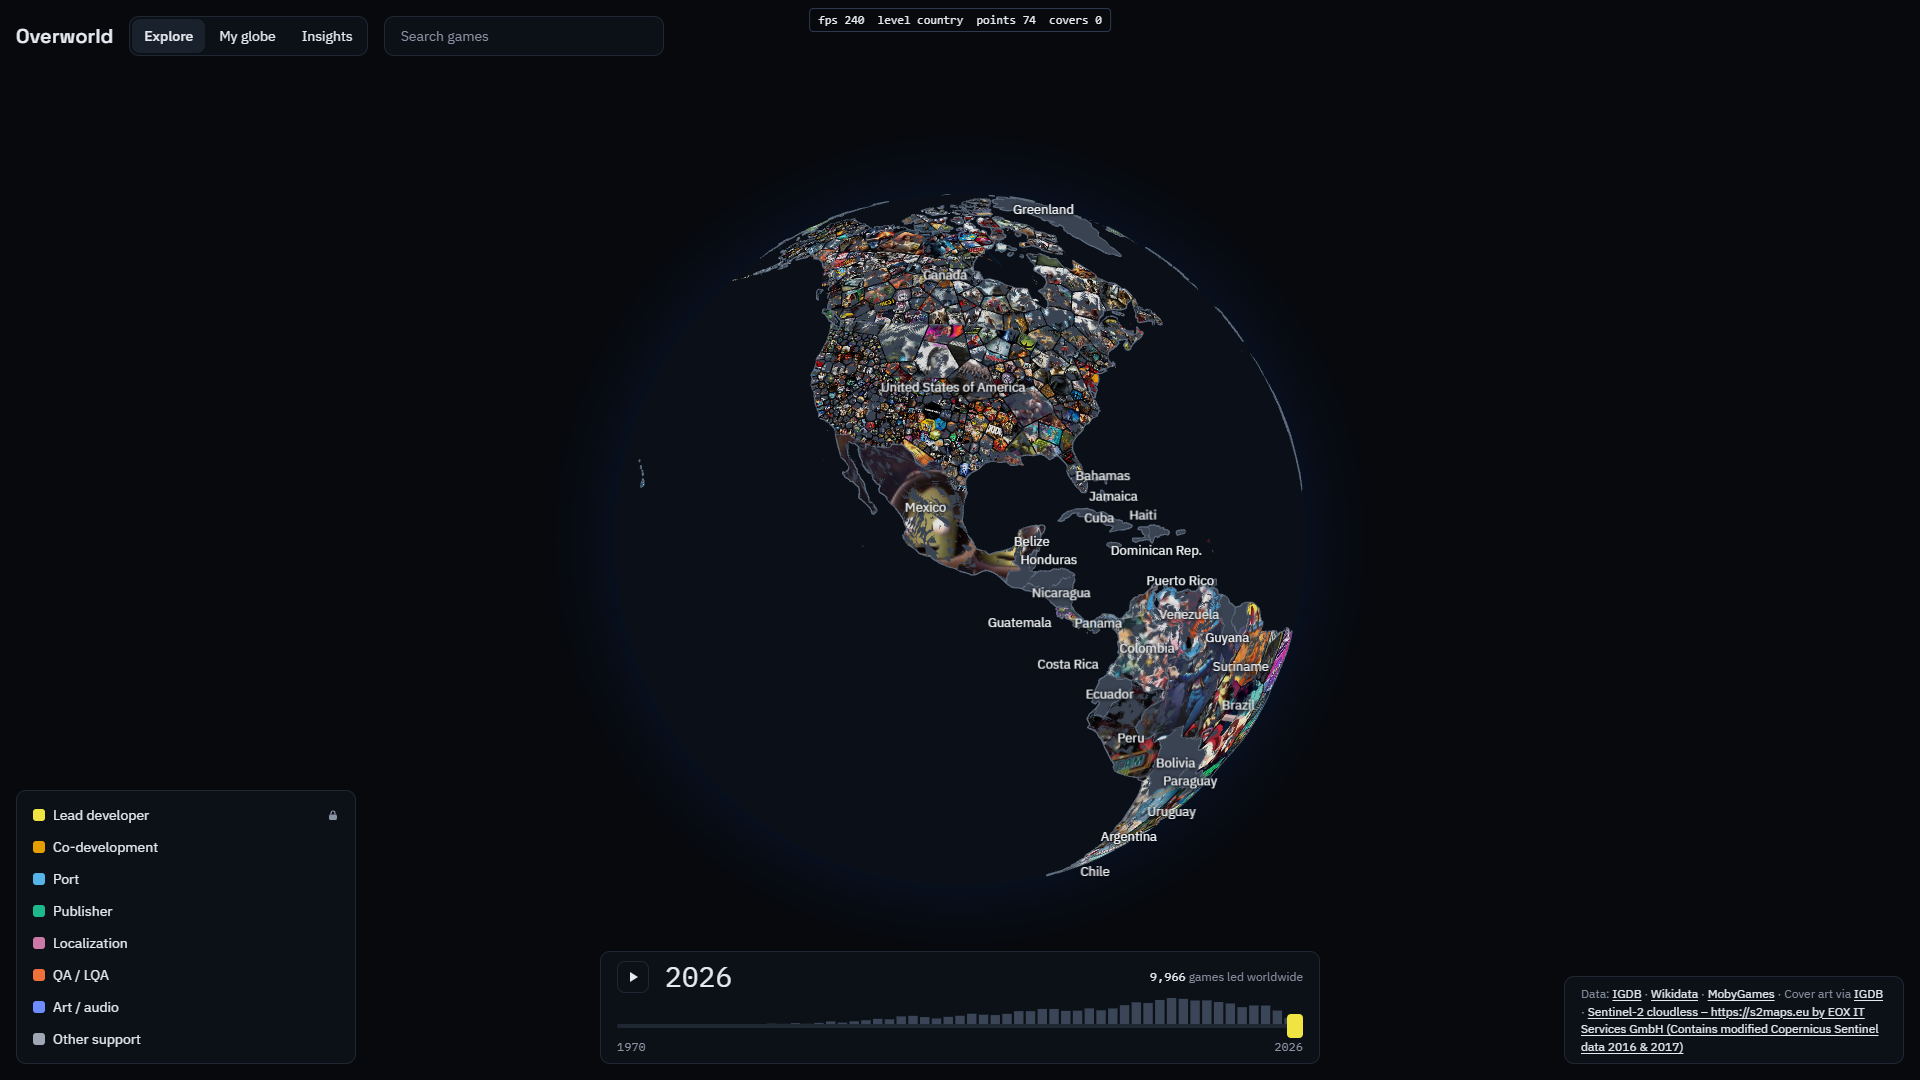
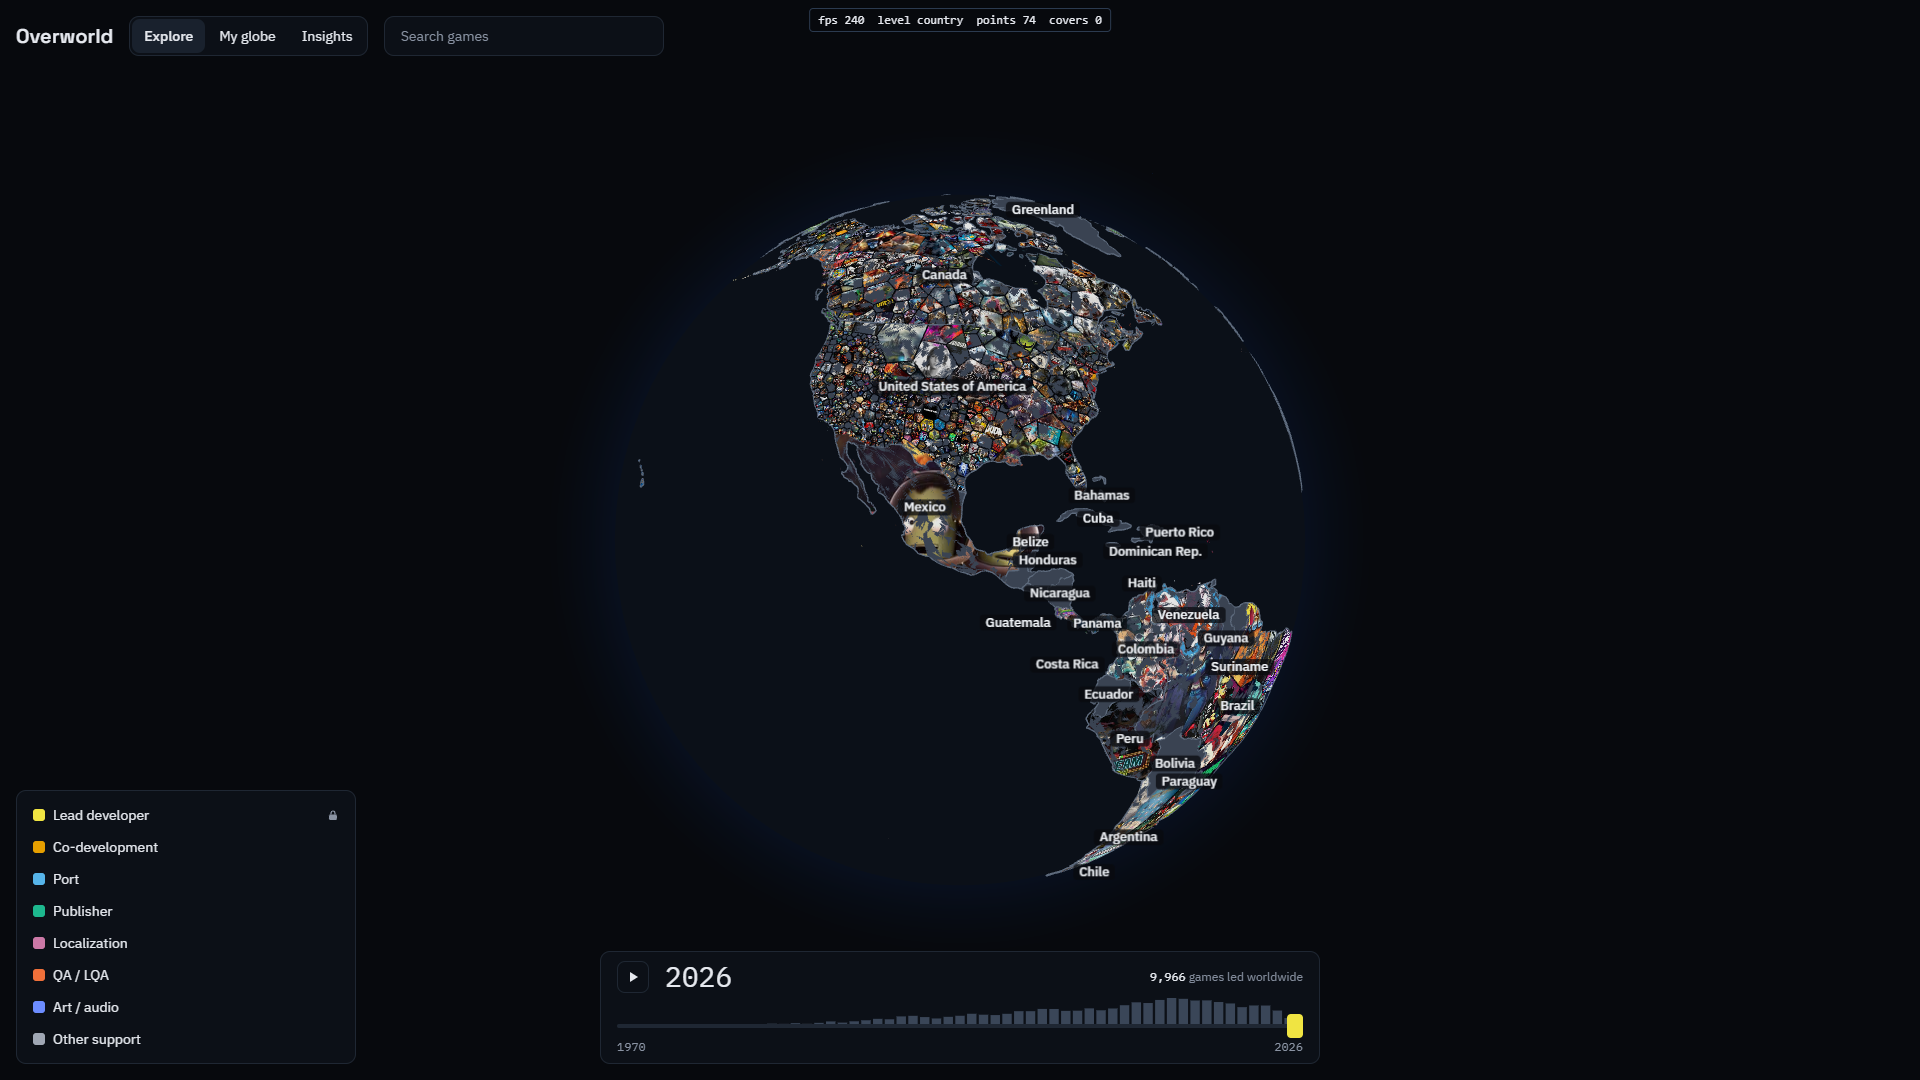
Add 2x cover tier and pick sharp covers while the globe moves

Changed region(s): [[0.4062, 0.1833, 0.6875, 0.825], [0.8125, 0.9167, 1.0, 0.9778]]

diff --git a/web/src/globe/mosaicLayer.ts b/web/src/globe/mosaicLayer.ts
@@ -5,30 +5,39 @@ import type { MosaicCell, MosaicMesh } from './mosaic/build';
 import type { MosaicRequest, MosaicResponse, WorkerGame } from './mosaic/protocol';
 import { GLOBE_RADIUS } from './outline';
 
-// Three sharpness tiers; a cell gets the next tier once it shows its cover taller than the current tier's pixels.
-const LOW: AtlasLayout = { size: 3072, slotW: 64, slotH: 88, imageW: 60, imageH: 85 };
-const MID: AtlasLayout = { size: 4096, height: 2048, slotW: 268, slotH: 378, imageW: 264, imageH: 374 };
-const TOP: AtlasLayout = { size: 3072, height: 2176, slotW: 768, slotH: 1088, imageW: 762, imageH: 1080 };
-const MID_CAPACITY = 75;
-const TOP_CAPACITY = 8;
+// Sharpness tiers: a cell moves to the next tier once its cover spans more screen pixels than the current tier has.
+interface Tier {
+  layout: AtlasLayout;
+  size: 'cover_small' | 'cover_big' | 'cover_big_2x' | '1080p';
+  capacity: number;
+  inFlight: number;
+}
+const TIERS: Tier[] = [
+  { layout: { size: 3072, slotW: 64, slotH: 88, imageW: 60, imageH: 85 }, size: 'cover_small', capacity: 1632, inFlight: 8 },
+  { layout: { size: 4096, height: 2048, slotW: 268, slotH: 378, imageW: 264, imageH: 374 }, size: 'cover_big', capacity: 75, inFlight: 4 },
+  { layout: { size: 4096, slotW: 532, slotH: 752, imageW: 528, imageH: 748 }, size: 'cover_big_2x', capacity: 35, inFlight: 4 },
+  { layout: { size: 3072, height: 2176, slotW: 768, slotH: 1088, imageW: 762, imageH: 1080 }, size: '1080p', capacity: 8, inFlight: 2 },
+];
 const TABLE_W = 2048;
-const STRIDE = 3;
+const STRIDE = TIERS.length;
 const BASE_COLOR = new THREE.Color('#4a5466');
 
 const VERTEX = `
 attribute float aCell;
 uniform sampler2D uTable;
 varying vec2 vUv;
-flat varying vec4 vLow;
-flat varying vec4 vHigh;
+flat varying vec4 vT0;
+flat varying vec4 vT1;
+flat varying vec4 vT2;
+flat varying vec4 vT3;
 flat varying float vCell;
-flat varying vec4 vTop;
 ivec2 at(int k) { return ivec2(k % ${TABLE_W}, k / ${TABLE_W}); }
 void main() {
-  int c = int(aCell + 0.5);
-  vLow = texelFetch(uTable, at(${STRIDE} * c), 0);
-  vHigh = texelFetch(uTable, at(${STRIDE} * c + 1), 0);
-  vTop = texelFetch(uTable, at(${STRIDE} * c + 2), 0);
+  int c = ${STRIDE} * int(aCell + 0.5);
+  vT0 = texelFetch(uTable, at(c), 0);
+  vT1 = texelFetch(uTable, at(c + 1), 0);
+  vT2 = texelFetch(uTable, at(c + 2), 0);
+  vT3 = texelFetch(uTable, at(c + 3), 0);
   vCell = aCell;
   vUv = uv;
   gl_Position = projectionMatrix * modelViewMatrix * vec4(position, 1.0);
@@ -36,26 +45,29 @@ void main() {
 `;
 
 const FRAGMENT = `
-uniform sampler2D uLow;
-uniform sampler2D uHigh;
-uniform sampler2D uTop;
+uniform sampler2D uT0;
+uniform sampler2D uT1;
+uniform sampler2D uT2;
+uniform sampler2D uT3;
 uniform vec3 uBase;
 uniform float uHover;
 uniform float uSelected;
 uniform float uDim;
 varying vec2 vUv;
-flat varying vec4 vLow;
-flat varying vec4 vHigh;
-flat varying vec4 vTop;
+flat varying vec4 vT0;
+flat varying vec4 vT1;
+flat varying vec4 vT2;
+flat varying vec4 vT3;
 flat varying float vCell;
 float hash(float n) { return fract(sin(n * 12.9898) * 43758.5453); }
 vec2 inRect(vec4 r, vec2 uv) { return vec2(mix(r.x, r.z, uv.x), mix(r.y, r.w, 1.0 - uv.y)); }
 void main() {
   vec2 uv = clamp(vUv, 0.0, 1.0);
   vec3 col;
-  if (vTop.x >= 0.0) col = textureLod(uTop, inRect(vTop, uv), 0.0).rgb;
-  else if (vHigh.x >= 0.0) col = textureLod(uHigh, inRect(vHigh, uv), 0.0).rgb;
-  else if (vLow.x >= 0.0) col = textureLod(uLow, inRect(vLow, uv), 0.0).rgb;
+  if (vT3.x >= 0.0) col = textureLod(uT3, inRect(vT3, uv), 0.0).rgb;
+  else if (vT2.x >= 0.0) col = textureLod(uT2, inRect(vT2, uv), 0.0).rgb;
+  else if (vT1.x >= 0.0) col = textureLod(uT1, inRect(vT1, uv), 0.0).rgb;
+  else if (vT0.x >= 0.0) col = textureLod(uT0, inRect(vT0, uv), 0.0).rgb;
   else col = uBase * (0.75 + 0.5 * hash(vCell + 1.0));
   float hover = 1.0 - step(0.5, abs(vCell - uHover));
   float selected = 1.0 - step(0.5, abs(vCell - uSelected));
@@ -77,9 +89,7 @@ export interface MosaicStats {
 
 export class MosaicLayer {
   private readonly worker: Worker;
-  private readonly low: CoverAtlas;
-  private readonly high: CoverAtlas;
-  private readonly top: CoverAtlas;
+  private readonly atlases: CoverAtlas[];
   private pixelRatio = 1;
   private readonly material: THREE.ShaderMaterial;
   private readonly lineMaterial = new THREE.LineBasicMaterial({ color: '#05070b', transparent: true, opacity: 0.85 });
@@ -103,9 +113,7 @@ export class MosaicLayer {
     renderer: THREE.WebGLRenderer,
     clock: () => number,
   ) {
-    this.low = new CoverAtlas(renderer, clock, LOW, (id) => coverUrl(id), 8, false);
-    this.high = new CoverAtlas(renderer, clock, MID, (id) => coverUrl(id, 'cover_big'), 4, false);
-    this.top = new CoverAtlas(renderer, clock, TOP, (id) => coverUrl(id, '1080p'), 2, false);
+    this.atlases = TIERS.map((t) => new CoverAtlas(renderer, clock, t.layout, (id) => coverUrl(id, t.size), t.inFlight, false));
     this.pixelRatio = renderer.getPixelRatio();
     this.table = this.makeTable(1);
     this.material = new THREE.ShaderMaterial({
@@ -113,9 +121,10 @@ export class MosaicLayer {
       fragmentShader: FRAGMENT,
       uniforms: {
         uTable: { value: this.table },
-        uLow: { value: this.low.texture },
-        uHigh: { value: this.high.texture },
-        uTop: { value: this.top.texture },
+        uT0: { value: this.atlases[0]!.texture },
+        uT1: { value: this.atlases[1]!.texture },
+        uT2: { value: this.atlases[2]!.texture },
+        uT3: { value: this.atlases[3]!.texture },
         uBase: { value: BASE_COLOR },
         uHover: { value: -1 },
         uSelected: { value: -1 },
@@ -188,8 +197,8 @@ export class MosaicLayer {
       buildMs: this.buildMs,
       applyMs: this.applyMs,
       frameMs: this.frameMs,
-      lowLoaded: this.low.loadedCount(),
-      highLoaded: this.high.loadedCount() + this.top.loadedCount(),
+      lowLoaded: this.atlases[0]!.loadedCount(),
+      highLoaded: this.atlases.slice(1).reduce((a, t) => a + t.loadedCount(), 0),
     };
   }
 
@@ -209,22 +218,17 @@ export class MosaicLayer {
   private frameInner(camera: THREE.PerspectiveCamera, heightPx: number): boolean {
     if (this.needHigh && this.cells.length > 0) {
       this.needHigh = false;
-      const { mid, top } = this.pickSharp(camera, heightPx);
-      this.high.want(mid);
-      this.top.want(top);
+      this.pickSharp(camera, heightPx).forEach((keys, k) => this.atlases[k + 1]!.want(keys));
     }
-    const lowChanged = this.low.frame();
-    const topChanged = this.top.frame();
-    const changed = this.high.frame() || lowChanged || topChanged;
+    let changed = false;
+    for (const a of this.atlases) changed = a.frame() || changed;
     if (changed) this.fillTable();
     return changed;
   }
 
   dispose(): void {
     this.worker.terminate();
-    this.low.dispose();
-    this.high.dispose();
-    this.top.dispose();
+    for (const a of this.atlases) a.dispose();
     this.table.dispose();
     this.mesh.geometry.dispose();
     this.lines.geometry.dispose();
@@ -285,7 +289,7 @@ export class MosaicLayer {
       .sort((a, b) => b[0] - a[0])
       .map(([, i]) => m.cells[i]!.cover)
       .filter((c): c is string => !!c);
-    this.low.want(order.slice(0, Math.floor(LOW.size / LOW.slotW) * Math.floor(LOW.size / LOW.slotH)));
+    this.atlases[0]!.want(order.slice(0, TIERS[0]!.capacity));
     this.needHigh = true;
     this.fillTable();
     this.onChange();
@@ -308,24 +312,23 @@ export class MosaicLayer {
     data.fill(-1);
     this.cells.forEach((c, i) => {
       if (!c.cover) return;
-      const base = 4 * STRIDE * i;
-      const lo = this.low.uv(c.cover);
-      if (lo) data.set(lo, base);
-      const mid = this.high.uv(c.cover);
-      if (mid) data.set(mid, base + 4);
-      const top = this.top.uv(c.cover);
-      if (top) data.set(top, base + 8);
+      this.atlases.forEach((a, k) => {
+        const r = a.uv(c.cover!);
+        if (r) data.set(r, 4 * (STRIDE * i + k));
+      });
     });
     this.table.needsUpdate = true;
   }
 
   // Pixels the cover spans on screen, from its laid-out height, the distance and how much the cell faces the camera.
-  private pickSharp(camera: THREE.PerspectiveCamera, heightPx: number): { mid: string[]; top: string[] } {
+  // Returns, for each tier above the first, the covers that need it, biggest first; cells off screen are skipped.
+  private pickSharp(camera: THREE.PerspectiveCamera, heightPx: number): string[][] {
     const focal = (heightPx * this.pixelRatio) / (2 * Math.tan((camera.fov * Math.PI) / 360));
     const cam = camera.position;
     const camLen = cam.length();
     const scored: [number, string][] = [];
     const p = new THREE.Vector3();
+    const ndc = new THREE.Vector3();
     for (const c of this.cells) {
       if (!c.cover) continue;
       const phi = ((90 - c.lat) * Math.PI) / 180;
@@ -335,12 +338,18 @@ export class MosaicLayer {
       if (facing < 0.1) continue;
       const size = c.imageH * (Math.PI / 180) * GLOBE_RADIUS;
       const px = (size / Math.max(1, p.distanceTo(cam))) * focal * Math.sqrt(facing);
-      if (px > LOW.imageH) scored.push([px, c.cover]);
+      if (px <= TIERS[0]!.layout.imageH) continue;
+      ndc.copy(p).project(camera);
+      const reach = 1 + (2 * px) / (heightPx * this.pixelRatio);
+      if (Math.abs(ndc.x) > reach + 0.5 || Math.abs(ndc.y) > reach) continue;
+      scored.push([px, c.cover]);
     }
-    scored.sort((a, b) => b[0] - a[0]);
-    return {
-      mid: scored.slice(0, MID_CAPACITY).map(([, k]) => k),
-      top: scored.filter(([px]) => px > MID.imageH).slice(0, TOP_CAPACITY).map(([, k]) => k),
-    };
+    scored.sort((x, y) => y[0] - x[0]);
+    return TIERS.slice(1).map((t, k) =>
+      scored
+        .filter(([px]) => px > TIERS[k]!.layout.imageH)
+        .slice(0, t.capacity)
+        .map(([, key]) => key),
+    );
   }
 }

diff --git a/web/src/globe/GlobeView.tsx b/web/src/globe/GlobeView.tsx
@@ -398,6 +398,7 @@ export function GlobeView() {
     let mosaicPicking = false;
     let mosaicMovedAt = -Infinity;
     let mosaicSettled = true;
+    let mosaicPickedAt = -Infinity;
     relayoutRef.current = 'fresh';
     let lastMove = -Infinity;
     let lastLayout = -Infinity;
@@ -627,8 +628,9 @@ ${where}`;
         mosaicMovedAt = now;
         mosaicSettled = false;
       }
-      if (!mosaicSettled && now - mosaicMovedAt > 250) {
-        mosaicSettled = true;
+      if (!mosaicSettled && (now - mosaicMovedAt > 250 || now - mosaicPickedAt > 400)) {
+        mosaicSettled = now - mosaicMovedAt > 250;
+        mosaicPickedAt = now;
         mosaic.cameraMoved();
       }
       mosaic.frame(camera as THREE.PerspectiveCamera, canvas.clientHeight);

diff --git a/web/src/globe/coverAtlas.ts b/web/src/globe/coverAtlas.ts
@@ -4,7 +4,7 @@ import { ATLAS, atlasHeight, slotCount, slotOrigin, slotUv, SlotCache, type Atla
 export const MAX_IN_FLIGHT = 4;
 const UPLOADS_PER_FRAME = 2;
 
-export function coverUrl(id: string, size: 'cover_small' | 'cover_big' | '1080p' = 'cover_small'): string {
+export function coverUrl(id: string, size: 'cover_small' | 'cover_big' | 'cover_big_2x' | '1080p' = 'cover_small'): string {
   return `https://images.igdb.com/igdb/image/upload/t_${size}/${id}.jpg`;
 }
 

diff --git a/reports/performance-real.md b/reports/performance-real.md
@@ -1,6 +1,6 @@
 # Globe performance, real data
 
-- Date: 2026-11-16T19:22:56.659Z
+- Date: 2026-11-16T20:09:48.601Z
 - GPU renderer: `ANGLE (NVIDIA, NVIDIA GeForce RTX 2060 SUPER (0x00001F06) Direct3D11 vs_5_0 ps_5_0, D3D11)` (vendor `Google Inc. (NVIDIA)`)
 - Browser: Chrome/157.0.8103.51, headful, viewport 1920x1080 at devicePixelRatio 1
 - Server: vite dev server (unminified React development build), data set `real`: 9966 games, 6385 companies, years 1970 to 2026, generatedAt 2026-11-16T18:25:27.009Z
@@ -13,14 +13,14 @@ Frame times come from a requestAnimationFrame loop inside the page. 1% low is 10
 
 | Scenario | Level | Points | Covers | Avg fps | 1% low fps | Median ms | p95 ms | Max ms | Frames | >20 ms | App fps | Result |
 |---|---|---|---|---|---|---|---|---|---|---|---|---|
-| a-idle-country | country | 74 | 0 | 239.6 | 195.1 | 4.2 | 4.3 | 8.9 | 1197 | 0% | 239 | PASS |
-| b-orbit-country | country | 74 | 0 | 239 | 162.6 | 4.2 | 4.3 | 8.4 | 1194 | 0% | 240 | PASS |
-| c-orbit-city-europe | city | 482 | 0 | 239.2 | 172.7 | 4.2 | 4.3 | 8.4 | 1196 | 0% | 239 | PASS |
-| d-orbit-company-dense-city | company | 4880 | 0 | 236 | 96.4 | 4.2 | 4.4 | 16.6 | 1179 | 0% | 240 | PASS |
-| e1-year-play-country | country | 74 | 0 | 206.1 | 14.7 | 4.2 | 4.4 | 1999.8 | 4040 | 0.3% | 189 | PASS |
-| e2-year-play-company | company | 4880 | 0 | 224.3 | 45.4 | 4.2 | 4.4 | 104.2 | 4395 | 0.3% | 229 | PASS |
-| f-game-arcs | country | 74 | 0 | 101.7 | 2.7 | 4.2 | 16.8 | 1229 | 508 | 4.9% | 240 | PASS |
-| g-game-filter-toggle | country | 74 | 0 | 77.7 | 1.6 | 4.2 | 16.6 | 1249.9 | 466 | 3.9% | 16 | PASS |
+| a-idle-country | country | 74 | 0 | 240 | 232.1 | 4.2 | 4.2 | 4.4 | 1199 | 0% | 240 | PASS |
+| b-orbit-country | country | 74 | 0 | 240 | 225.6 | 4.2 | 4.3 | 5.9 | 1199 | 0% | 240 | PASS |
+| c-orbit-city-europe | city | 482 | 0 | 239.6 | 200.3 | 4.2 | 4.3 | 8.3 | 1197 | 0% | 240 | PASS |
+| d-orbit-company-dense-city | company | 4880 | 0 | 238.2 | 135.9 | 4.2 | 4.3 | 12.6 | 1190 | 0% | 240 | PASS |
+| e1-year-play-country | country | 74 | 0 | 239.1 | 172.5 | 4.2 | 4.3 | 16.6 | 4688 | 0% | 240 | PASS |
+| e2-year-play-company | company | 4880 | 0 | 236.6 | 99.6 | 4.2 | 4.3 | 25.1 | 4638 | 0% | 240 | PASS |
+| f-game-arcs | country | 74 | 0 | 240 | 232.6 | 4.2 | 4.3 | 4.3 | 1199 | 0% | 240 | PASS |
+| g-game-filter-toggle | country | 74 | 0 | 239.4 | 185.6 | 4.2 | 4.3 | 12.5 | 1435 | 0% | 240 | PASS |
 
 - a-idle-country: Idle at country level (default view, default slow auto-rotate). Screenshot docs/screenshots/real-a-idle-country.png
 - b-orbit-country: Orbiting continuously at country level. Screenshot docs/screenshots/real-b-orbit-country.png
@@ -30,14 +30,14 @@ Frame times come from a requestAnimationFrame loop inside the page. 1% low is 10
 - e2-year-play-company: Year slider playing 1970 to 2026 at 350 ms/year, company level over Tokyo. Screenshot docs/screenshots/real-e2-year-play-company.png
 - f-game-arcs: Game selected: Assassin's Creed Valhalla (19 roles, 4 role types), arcs animating. Screenshot docs/screenshots/real-f-game-arcs.png
 - g-game-filter-toggle: Same game, toggling "Other support" and "Publisher" on/off once per second. Screenshot docs/screenshots/real-g-game-filter-toggle.png
-  - 5 filter toggles; 17 frames over 20 ms, 2 of them within 250 ms after a toggle; worst frame 1250 ms; slow frames (ms): 25, 25, 75, 38, 21, 1250, 25, 33, 25, 688, 33, 42, 21, 1004, 208, 58, 29
+  - 5 filter toggles; 0 frames over 20 ms, 0 of them within 250 ms after a toggle; worst frame 13 ms; slow frames (ms): 
 
 ## Functional checks
 
 - PASS **arcs**: expected 16 (from detail data, 9 roles enabled); scene arc objects 16; globe arcsData prop 16
 - PASS **role filter**: "Other support" aria-pressed true -> false -> true; scene arcs 16 -> 1 (expected 1) -> 16; screenshots differ: true
 - PASS **search**: typed "Knights of the Round", 1 results, first "Knights of the Round" (is target: true); Enter -> card heading "Knights of the Round", selectedGameId 6816
-- PASS **mosaic covers (country level)**: level country; 1197 mosaic cells, 133814 triangles, built in 1838 ms; 7701 covers loaded after 0.2 s (need >= 200), 565 large
+- PASS **mosaic covers (country level)**: level country; 1197 mosaic cells, 133814 triangles, built in 1418 ms; 8103 covers loaded after 0.1 s (need >= 200), 851 large
 - PASS **year slider**: keyboard on slider; readout "1985" (range 1985); places drawn (covers + dots) 5 at 1985 vs 74 at 2026; "208 games led worldwide"
 - PASS **year rebuilds the mosaic**: 2026 -> 1985: 1197 -> 1194 mosaic cells (need fewer, more than 0)
 - PASS **mosaic click**: hovered US centre at (960,540) at level country, tooltip "Doki Doki Literature Club! (2017) / Team Salvato, US"; click selected game 55935, card "Doki Doki Literature Club!"
